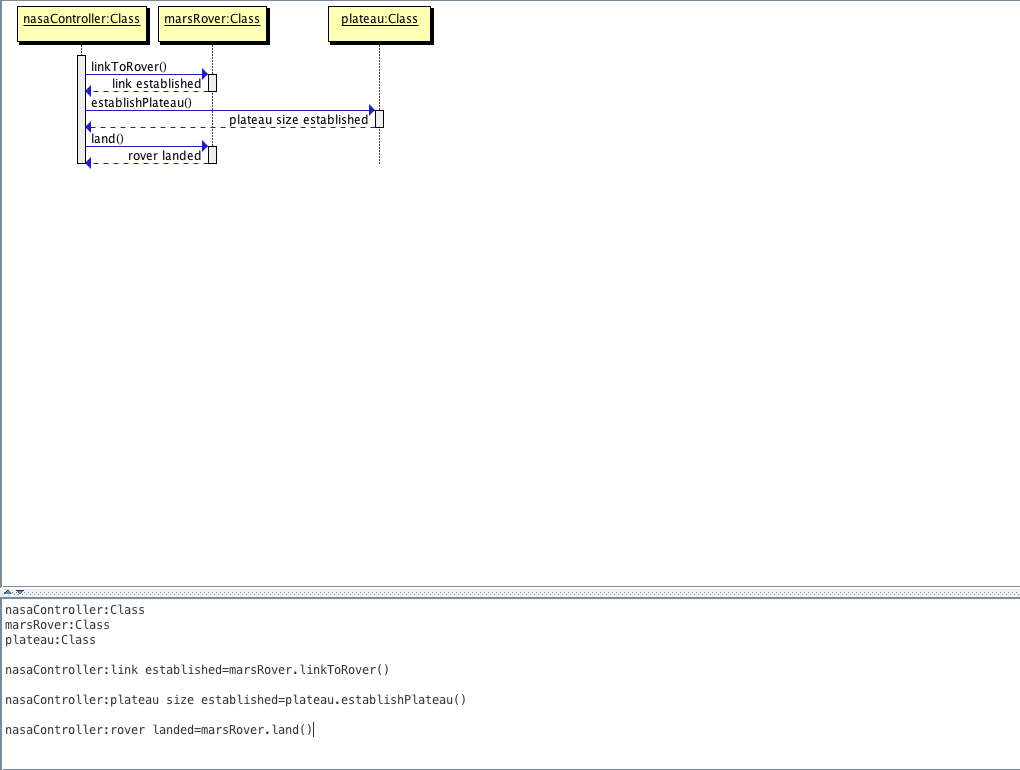
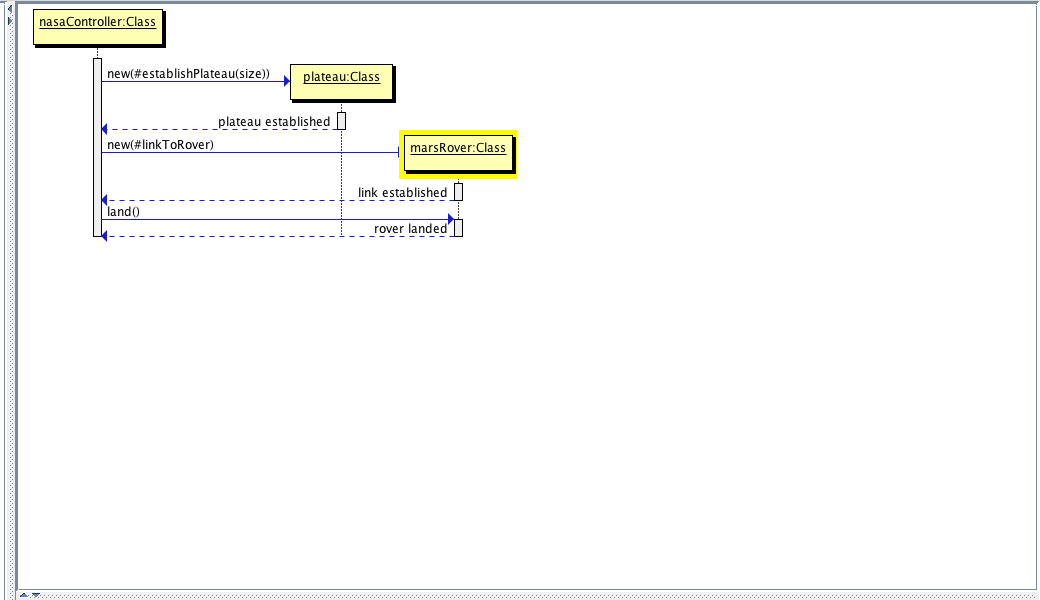
Update README
∆ Refactor design. This is because the old design did more than the
minimum to pass User Story One. Removing the navGrid class was a step
too far for this User Story.

diff --git a/spec/features/user_story_spec.rb b/spec/features/user_story_spec.rb
@@ -1,0 +1,14 @@
+describe 'User Stories' do
+
+  describe 'User Story One' do
+    
+    it "As a NASA controller,
+    So that I can have a robotic rover on a Mars plateau,
+    I'd like to be able to land a Mars Rover on the plateau." do
+      nasaController = NasaController.new
+      nasaController.linkToRover
+      nasaController.landRover(plateau, '5 5')
+
+    end
+  end
+end

diff --git a/README.md b/README.md
@@ -130,7 +130,7 @@ Keeping with the example above, User Story One has produced the following steps 
 
 **Step One**
 
-Using the messages taken from the Messages and Domain Objects table, define the most basic functionality.
+Using the messages taken from the 'Messages and Domain Objects' table, define the most basic functionality.
 
 ![alt text](./images/readme/fig_1.1.png "'Land a rover' message implemented.")
 
@@ -152,4 +152,6 @@ Look at the design one last time, checking for nouns and verbs that indicate mis
 
 ![alt text](./images/readme/fig_1.4.png "Add new class that can be found from the design.")
 
-####Test Driven Development (TDD)
+####Test Driven Development
+
+Test Driven Development (TDD) starts with a test. The first test is an automation test, which to begin with fails. The next step is to write a failing unit test followed by the simplest code required to pass that unit test. Continuing down this path leads to writing more failing unit tests and passing them with the simplest code possible until the original automation test passes. This was the path followed when developing the Mars Rover application.
